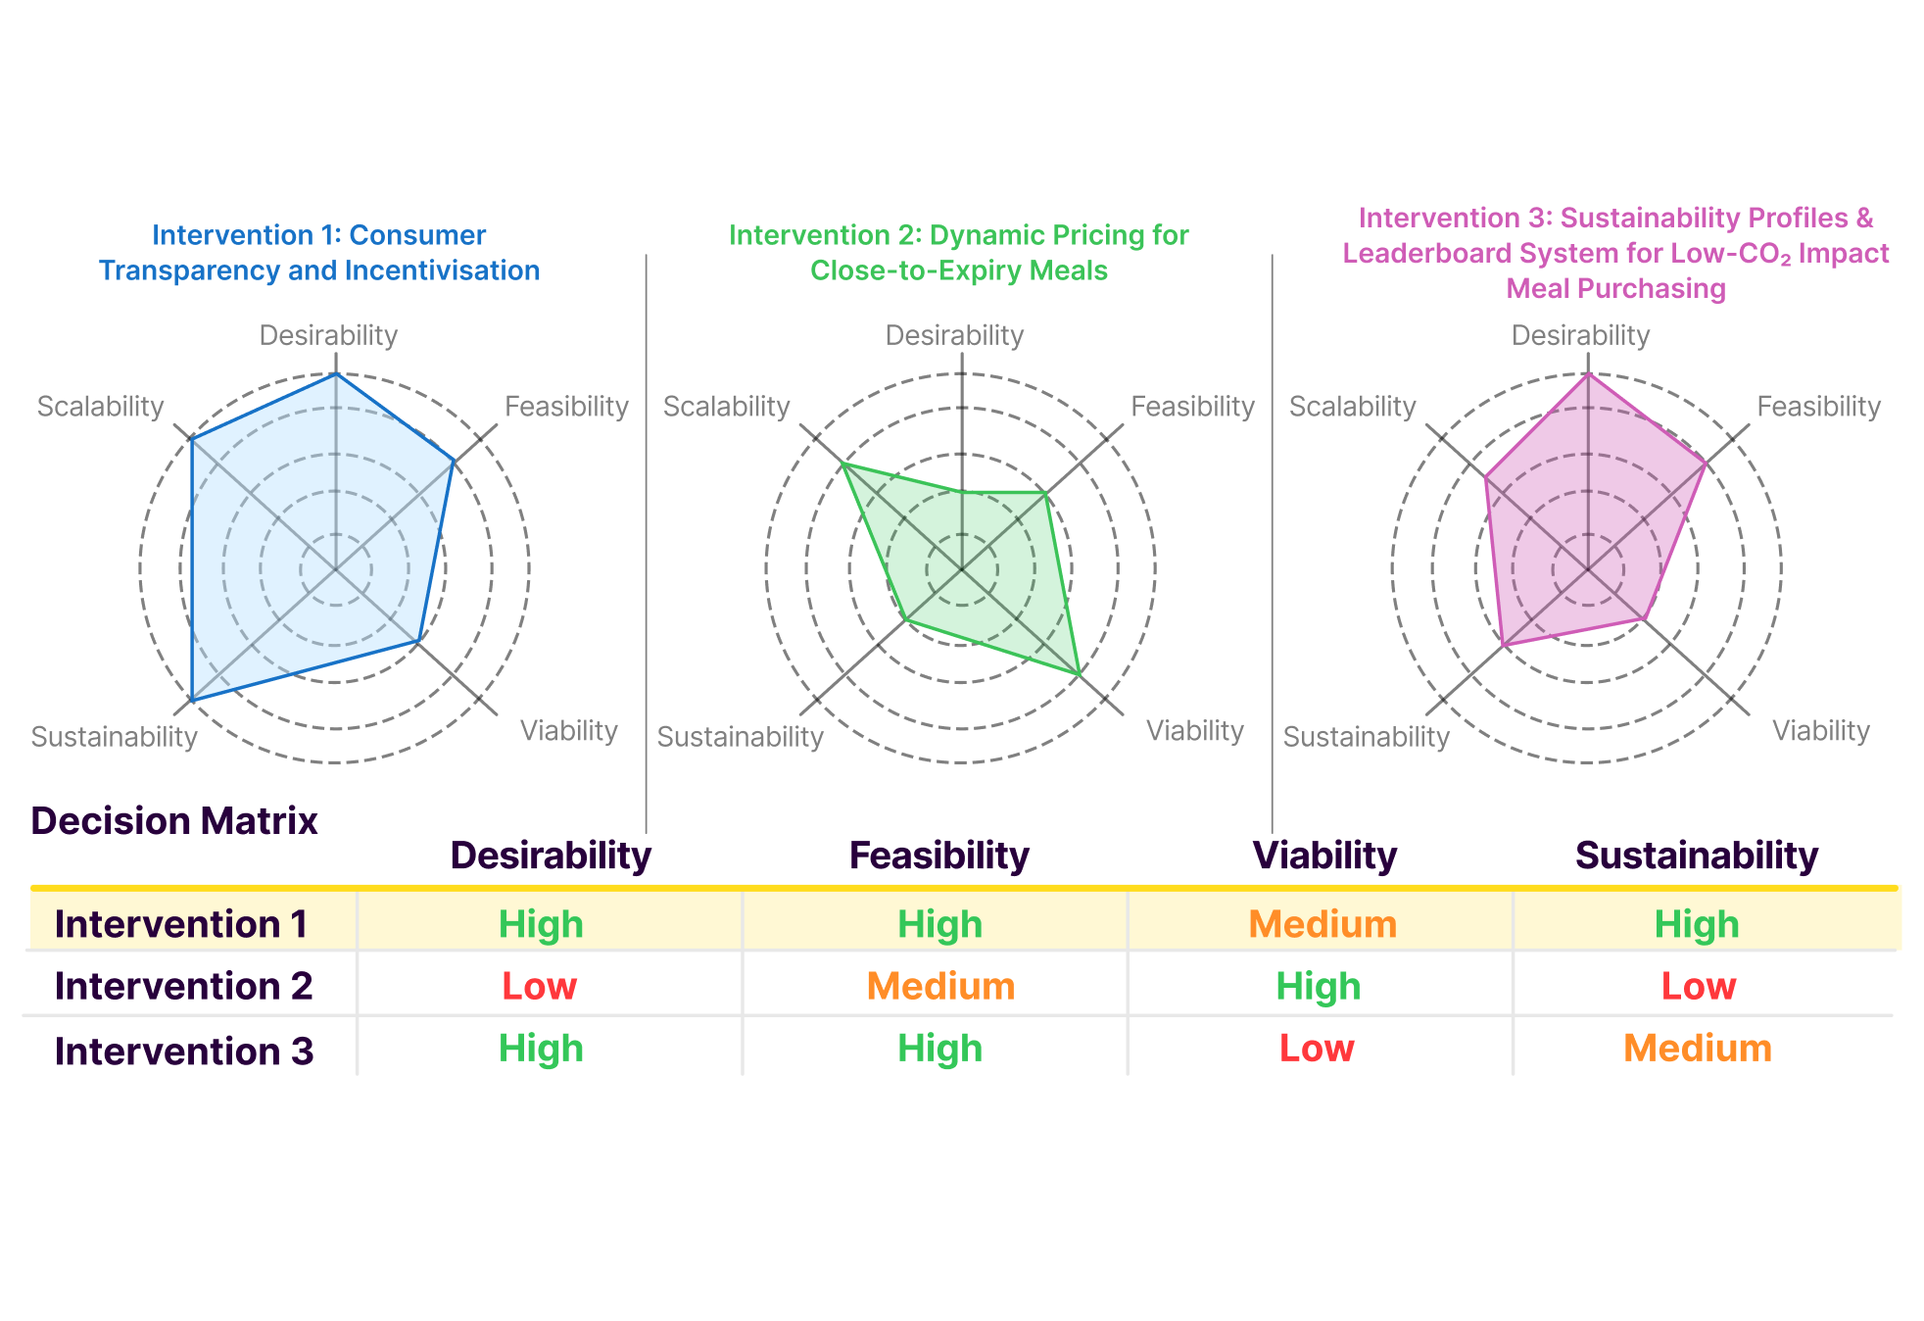
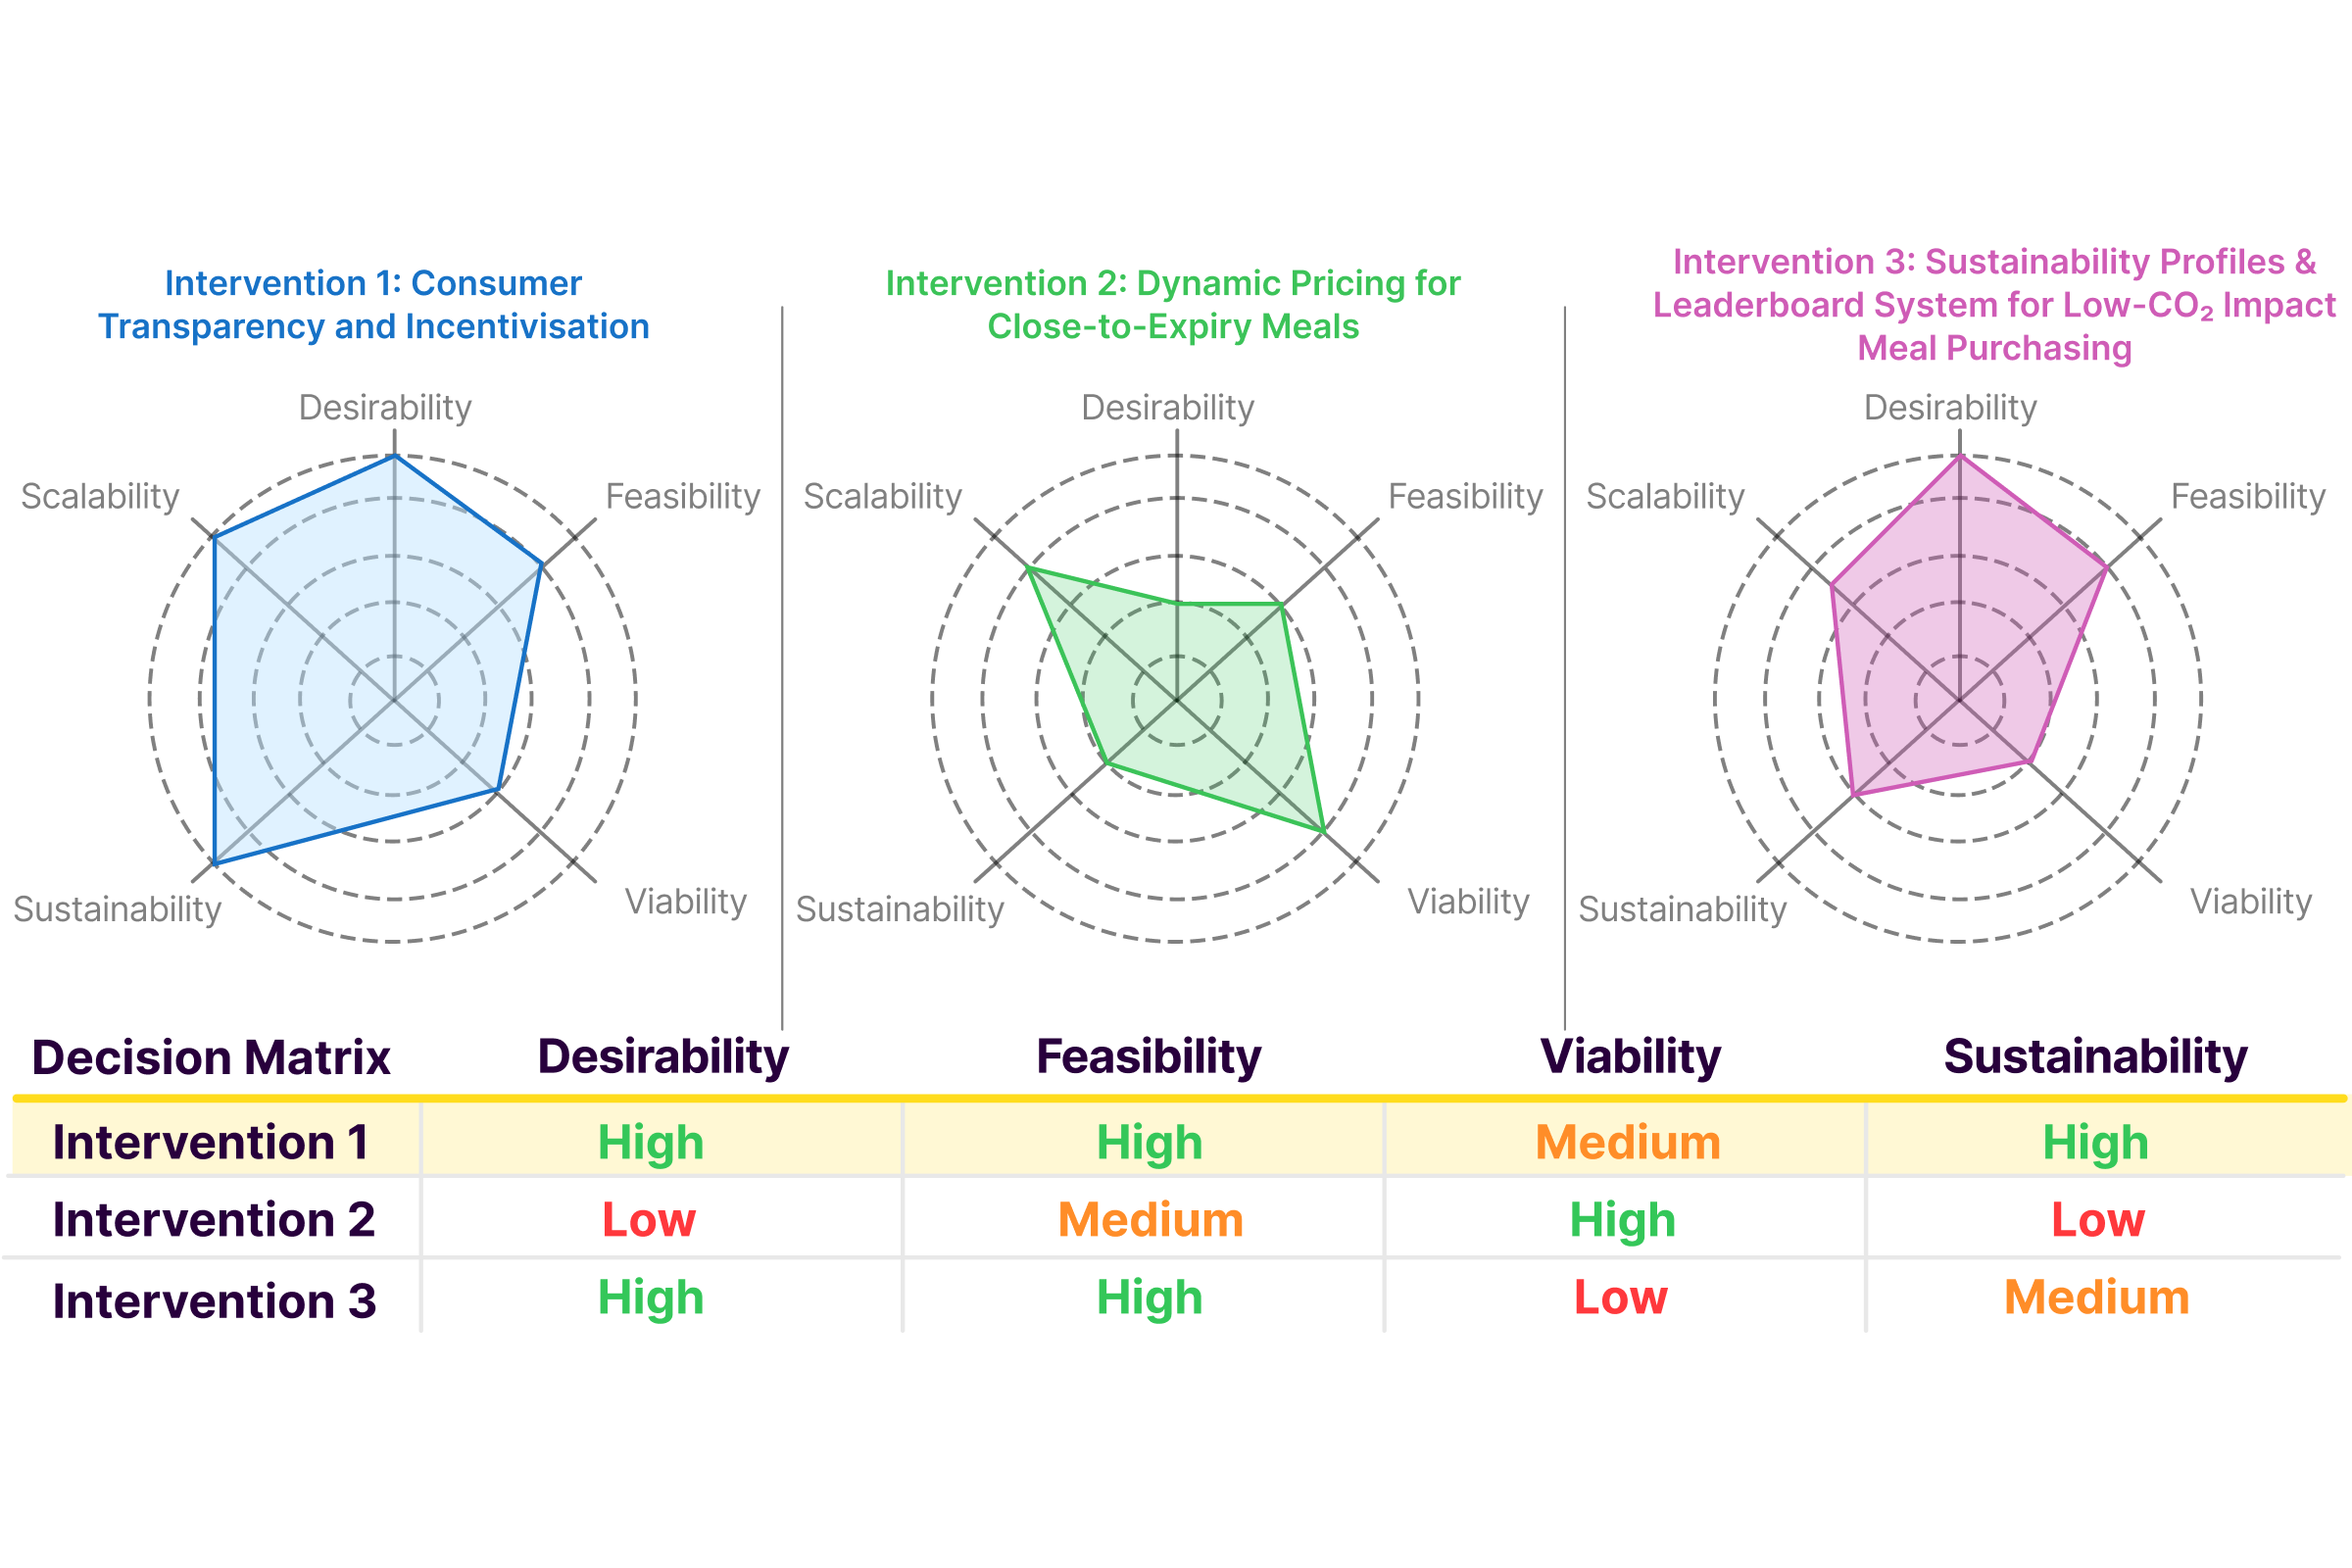
foodji update

Changed region(s): [[0.0, 0.1558, 1.0, 0.8412], [0.3727, 0.1558, 0.6212, 0.2181], [0.0311, 0.1558, 0.2795, 0.2181]]

diff --git a/arancha-portfolio/src/data/projects.ts b/arancha-portfolio/src/data/projects.ts
@@ -46,6 +46,12 @@ export type OtherProject = {
   tags: string[];
   hero_image?: string;
   pdf_url?: string;
+  accent_color?: string;
+  // Lightweight project page fields — context / brief / solution only,
+  // pointing to the full report for detail rather than a full case study.
+  info?: string;
+  problem?: string;
+  solution?: string;
 };
 
 export const projects: Project[] = [
@@ -348,13 +354,15 @@ export const projects: Project[] = [
         body: 'I mapped Foodji’s full stakeholder ecosystem — from meal suppliers and vending-machine technicians to regulatory bodies and waste contractors — and analysed how the company embeds the UN SDGs across its operations and supply chain. This fed into a value-mapping exercise across customer, network, society and environment lenses, alongside a study of Germany’s political and regulatory landscape, including the Waste Framework Directive and incoming carbon-tax proposals, which grounded our strategic focus on SDG 12 and the consumer intention-behaviour gap.',
         images: [
           { src: '/images/projects/foodji/stakeholder map.png', caption: 'Foodji stakeholder ecosystem map' },
+          { src: '/images/projects/foodji/sdg.png', caption: 'SDG Goals' },
+          { src: '/images/projects/foodji/value map.png', caption: 'Value mapping across lenses' },
         ],
       },
       {
         title: 'Intervention design, evaluation & selection',
         body: 'Building on our Theory of Change, I helped develop and evaluate three candidate interventions — CO₂e transparency and rewards, dynamic pricing on near-expiry meals, and a gamified sustainability leaderboard — scoring each against an IDEO-based decision matrix for desirability, feasibility, viability and sustainability. I contributed to the case for our final direction: A–E colour-coded CO₂e labelling paired with a digital loyalty card, selected for building entirely on Foodji’s existing app infrastructure at minimal implementation cost.',
         images: [
-          { src: '/images/projects/foodji/feature.png', caption: 'Design intervention' },
+          { src: '/images/projects/foodji/box.png', caption: 'Design intervention' },
           { src: '/images/projects/foodji/evaluation.png', caption: 'Intervention evaluation matrix' },
         ],
       },
@@ -362,7 +370,7 @@ export const projects: Project[] = [
         title: 'Financial modelling, impact case & delivery roadmap',
         body: 'I contributed to the quantitative case behind the final intervention — calculating meal-level CO₂e using an LCA-based methodology, modelling a shift in Foodji’s purchasing mix projected to save 576 tonnes of CO₂e a year, and costing the loyalty rewards programme against a 2%-of-revenue cap. I also helped structure the four-phase implementation roadmap and risk mitigation plan, benchmarking our approach against comparable interventions from HelloFresh, Too Good To Go and Germany’s Pfand deposit scheme.',
         images: [
-          { src: '/images/projects/foodji/machine.png', caption: 'Foodji smart vending machine' },
+          { src: '/images/projects/foodji/roadmap.png', caption: 'Implementation roadmap' },
         ],
       },
     ],
@@ -808,6 +816,10 @@ export const otherProjects: OtherProject[] = [
     one_line: 'An economic feasibility analysis of urban drone delivery networks, evaluating cost structures, regulation, and last-mile logistics.',
     tags: ['Systems Design', 'Data Analysis', 'Forecasting', 'Programming'],
     hero_image: '/images/projects/drone-delivery/drone.png',
+    accent_color: '#AFC9DD',
+    info: 'A group project with Andria Ioannides and Aaron Bendor for the Economics & Finance for Systems Design module, evaluating the economic viability of an autonomous drone delivery network for on-demand food delivery in London.',
+    problem: 'London’s food-delivery boom is straining an already congested city — delivery vehicles account for 17% of road traffic, and last-mile emissions are projected to rise sharply as personal deliveries double by 2030. Autonomous drone delivery offers an alternative, but existing feasibility studies rely on deterministic cost models that ignore real-world uncertainty in demand, battery costs and weather disruption, making it hard to know which fleet configuration is actually worth building.',
+    solution: 'We built a Discounted Cash Flow model comparing three drone-hub configurations — small, medium and large fleets — then stress-tested each with a 2,000-trial Monte Carlo simulation across demand and lithium-price uncertainty, layering in real-options decision rules for expanding the fleet over time. The small-drone fleet emerged as the most robust and cost-effective configuration, and a “pragmatic” flexible expansion rule — adding drones only once demand outstrips capacity — delivered the highest expected NPV of the three flexibility strategies tested.',
     pdf_url: '/reports/Assessing the Feasibility of Autonomous Drone Delivery Systems - A Strategic Flexibility Approach.pdf',
   },
   {
@@ -819,6 +831,10 @@ export const otherProjects: OtherProject[] = [
     one_line: 'A machine-learning model for short-range rainfall probability forecasting using historical meteorological datasets.',
     tags: ['Forecasting', 'Programming', 'Data Analysis'],
     hero_image: '/images/projects/rain-prediction/airport.png',
+    accent_color: '#C7CDD4',
+    info: 'A four-person group project with Zara Iqbal, Tharindu Ranaweera and Tamara Carpar for the Data Science module, comparing machine-learning models for predicting next-day rain at Sydney Airport from historical weather observations.',
+    problem: 'Airport operations depend on accurate short-range rain forecasting to manage flight safety, scheduling and cost, but tools like weather radar and satellite imagery are expensive and resolution-limited. Whether next-day rain could be reliably predicted from a single day’s weather observations — and which modelling approach handled this best — was an open question.',
+    solution: 'Using ten years of daily weather observations from Sydney Airport, we trained and compared four classification models — Decision Trees, Support Vector Machines, Random Forest and Logistic Regression — each tuned independently on the same cleaned, balanced dataset. Logistic Regression, which I built and tuned through forward feature selection, achieved the best overall validation accuracy and recall (79% accuracy, 92% recall), identifying humidity, cloud cover and temperature at 3pm as the strongest predictors of rain the next day.',
     pdf_url: '/reports/Using existing weather conditions to.pdf',
   },
   {
@@ -830,6 +846,10 @@ export const otherProjects: OtherProject[] = [
     one_line: 'Finite element analysis of a hip implant under physiological loading, assessing stress distribution and fatigue risk.',
     tags: ['Engineering Analysis', 'CAD', 'Material Analysis'],
     hero_image: '/images/projects/hip-implant-fea/hip.png',
+    accent_color: '#D8C9B8',
+    info: 'An individual project for the Biomechanics & Structural Analysis module, using finite element analysis in Ansys to assess whether a hip implant design meets vibration and fatigue-life safety requirements.',
+    problem: 'Hip implants must avoid resonant natural frequencies that could accelerate loosening or fatigue failure, and must withstand millions of loading cycles over a target 15-year lifespan — but it wasn’t known whether the original implant geometry, in either titanium or stainless steel, actually met these requirements.',
+    solution: 'I ran natural-frequency and fatigue simulations on the implant in both Titanium Ti-6Al-4V and Stainless Steel 316L, then iteratively redesigned the geometry — thickening the neck and adding cut-out channels to shift stiffness and mass — to push more of its five vibrational modes into the safe 200Hz–3000Hz range. Both materials comfortably exceeded the 15-year fatigue-life target throughout, while the redesigned titanium implant proved the stronger candidate overall, passing static failure analysis where the stainless-steel version did not.',
     pdf_url: '/reports/FEA Hip Implant Report.pdf',
   },
 ];
